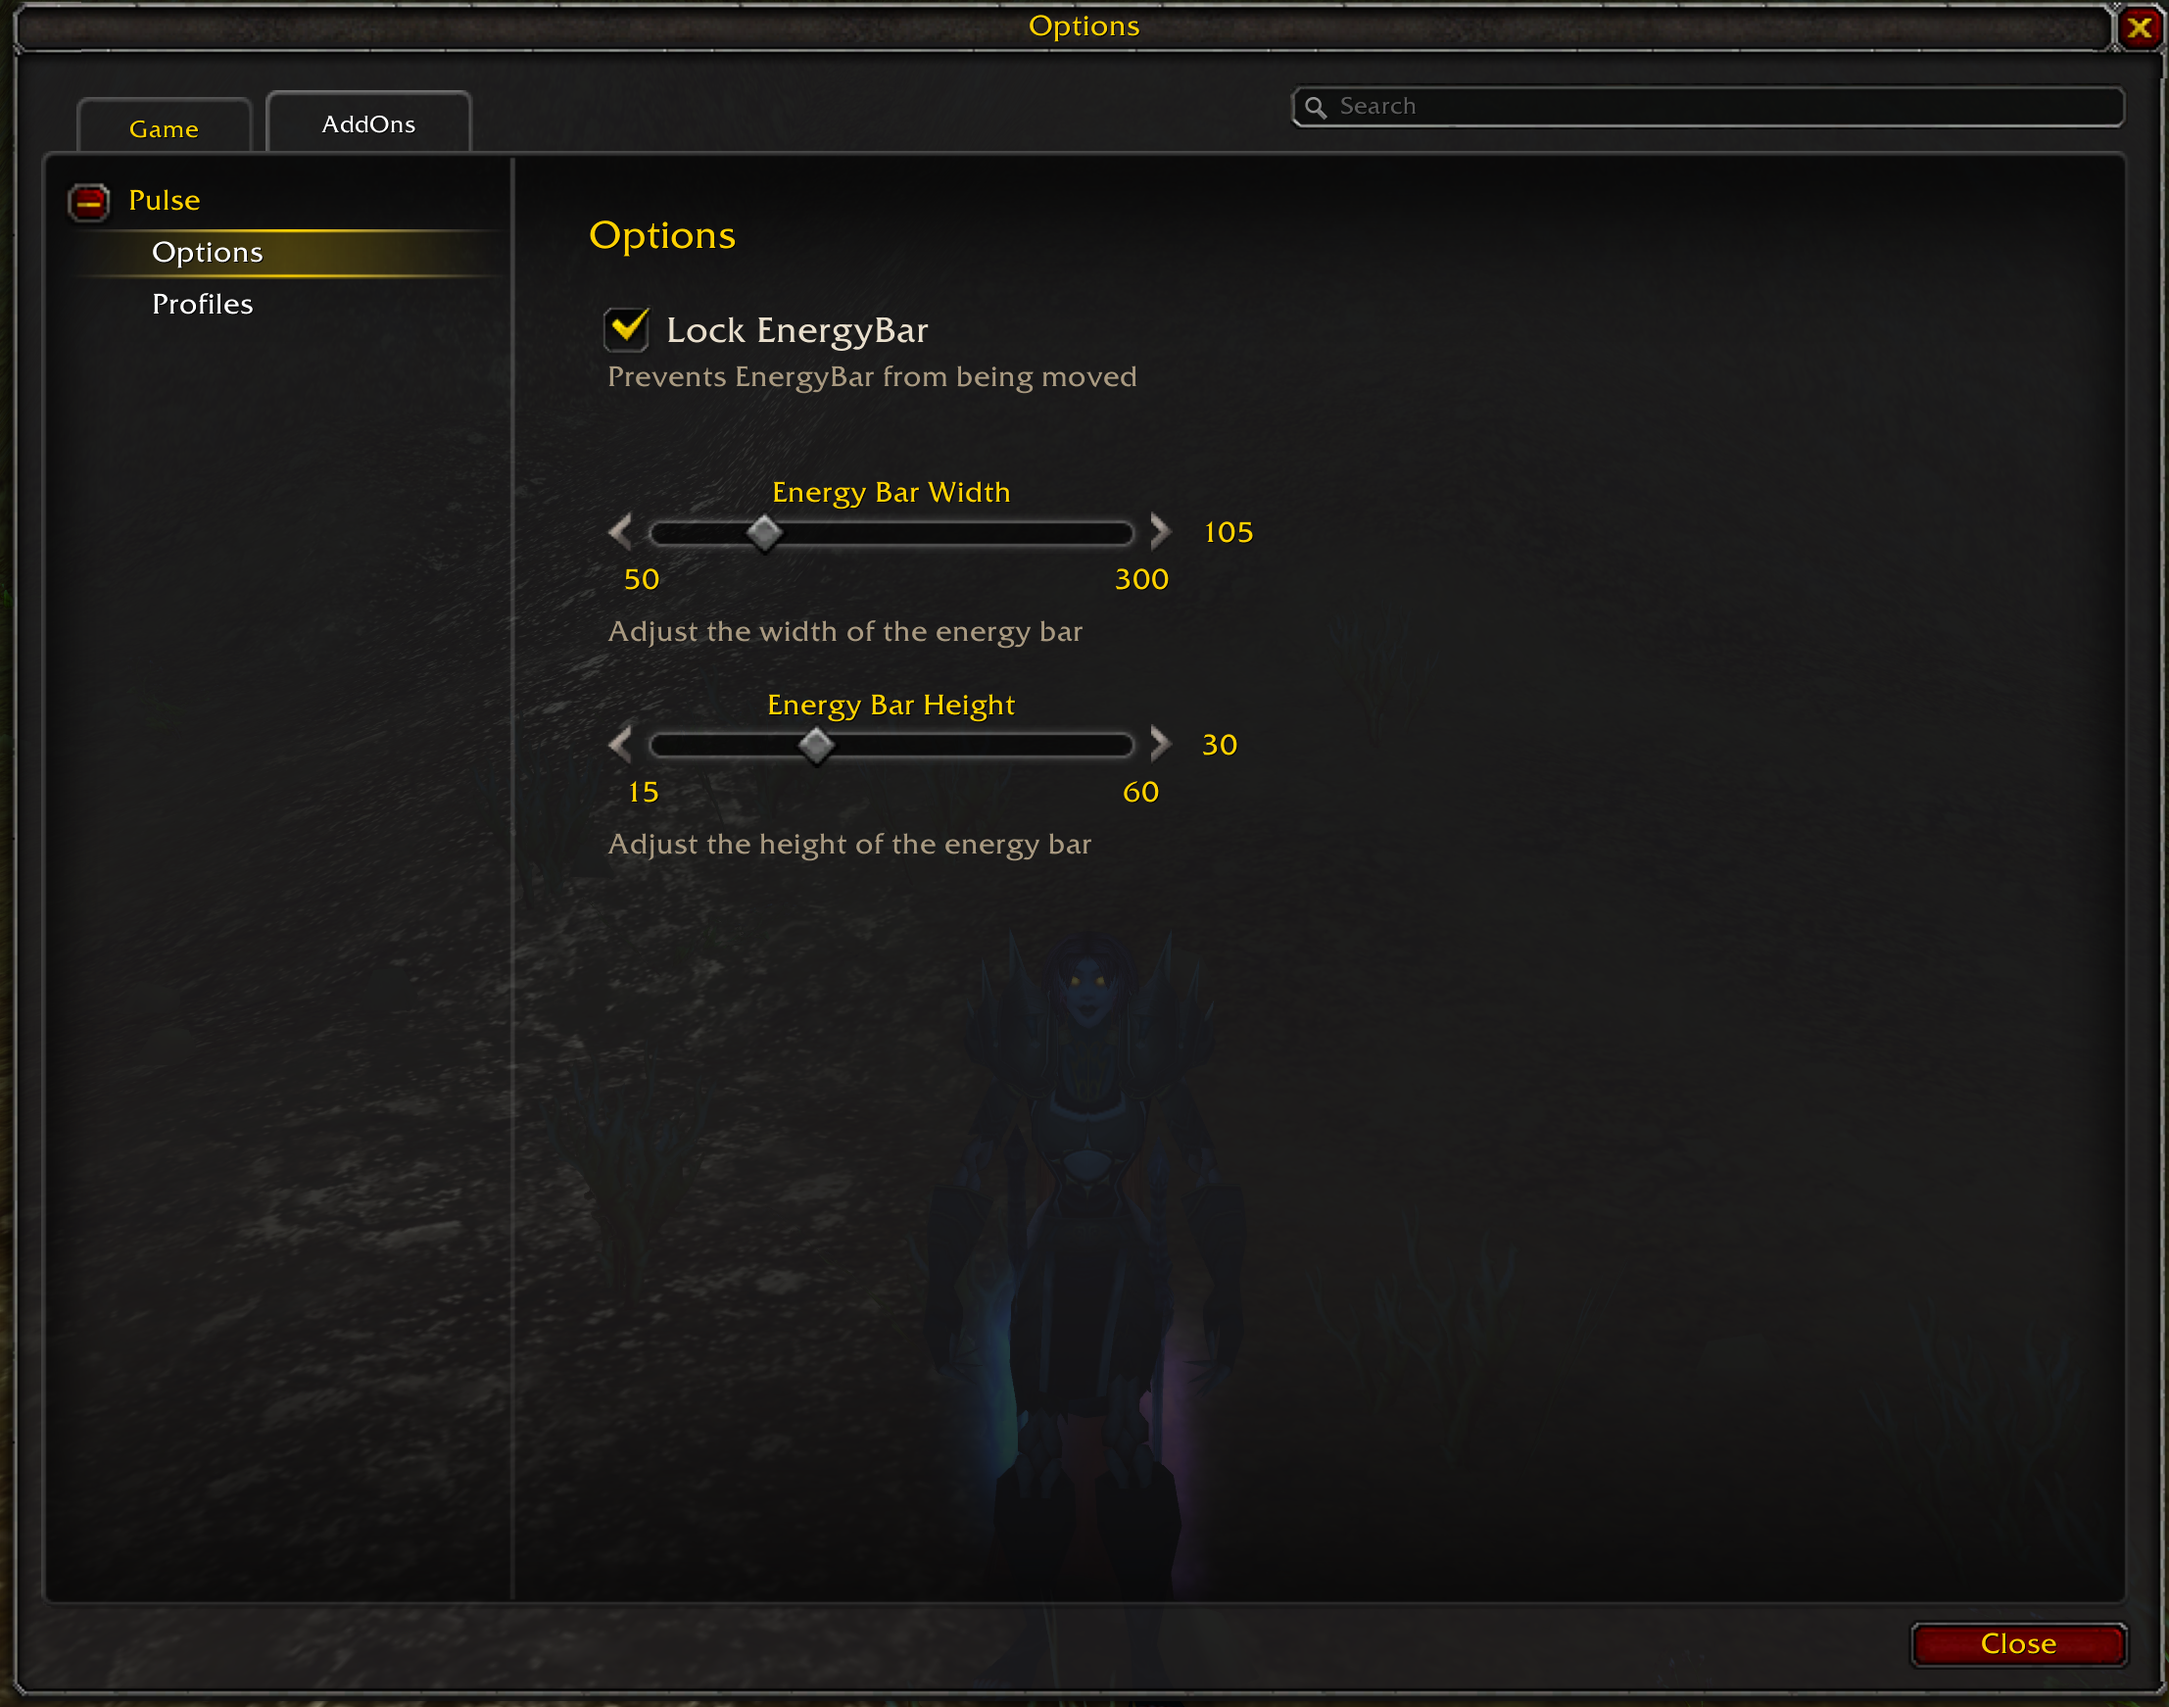
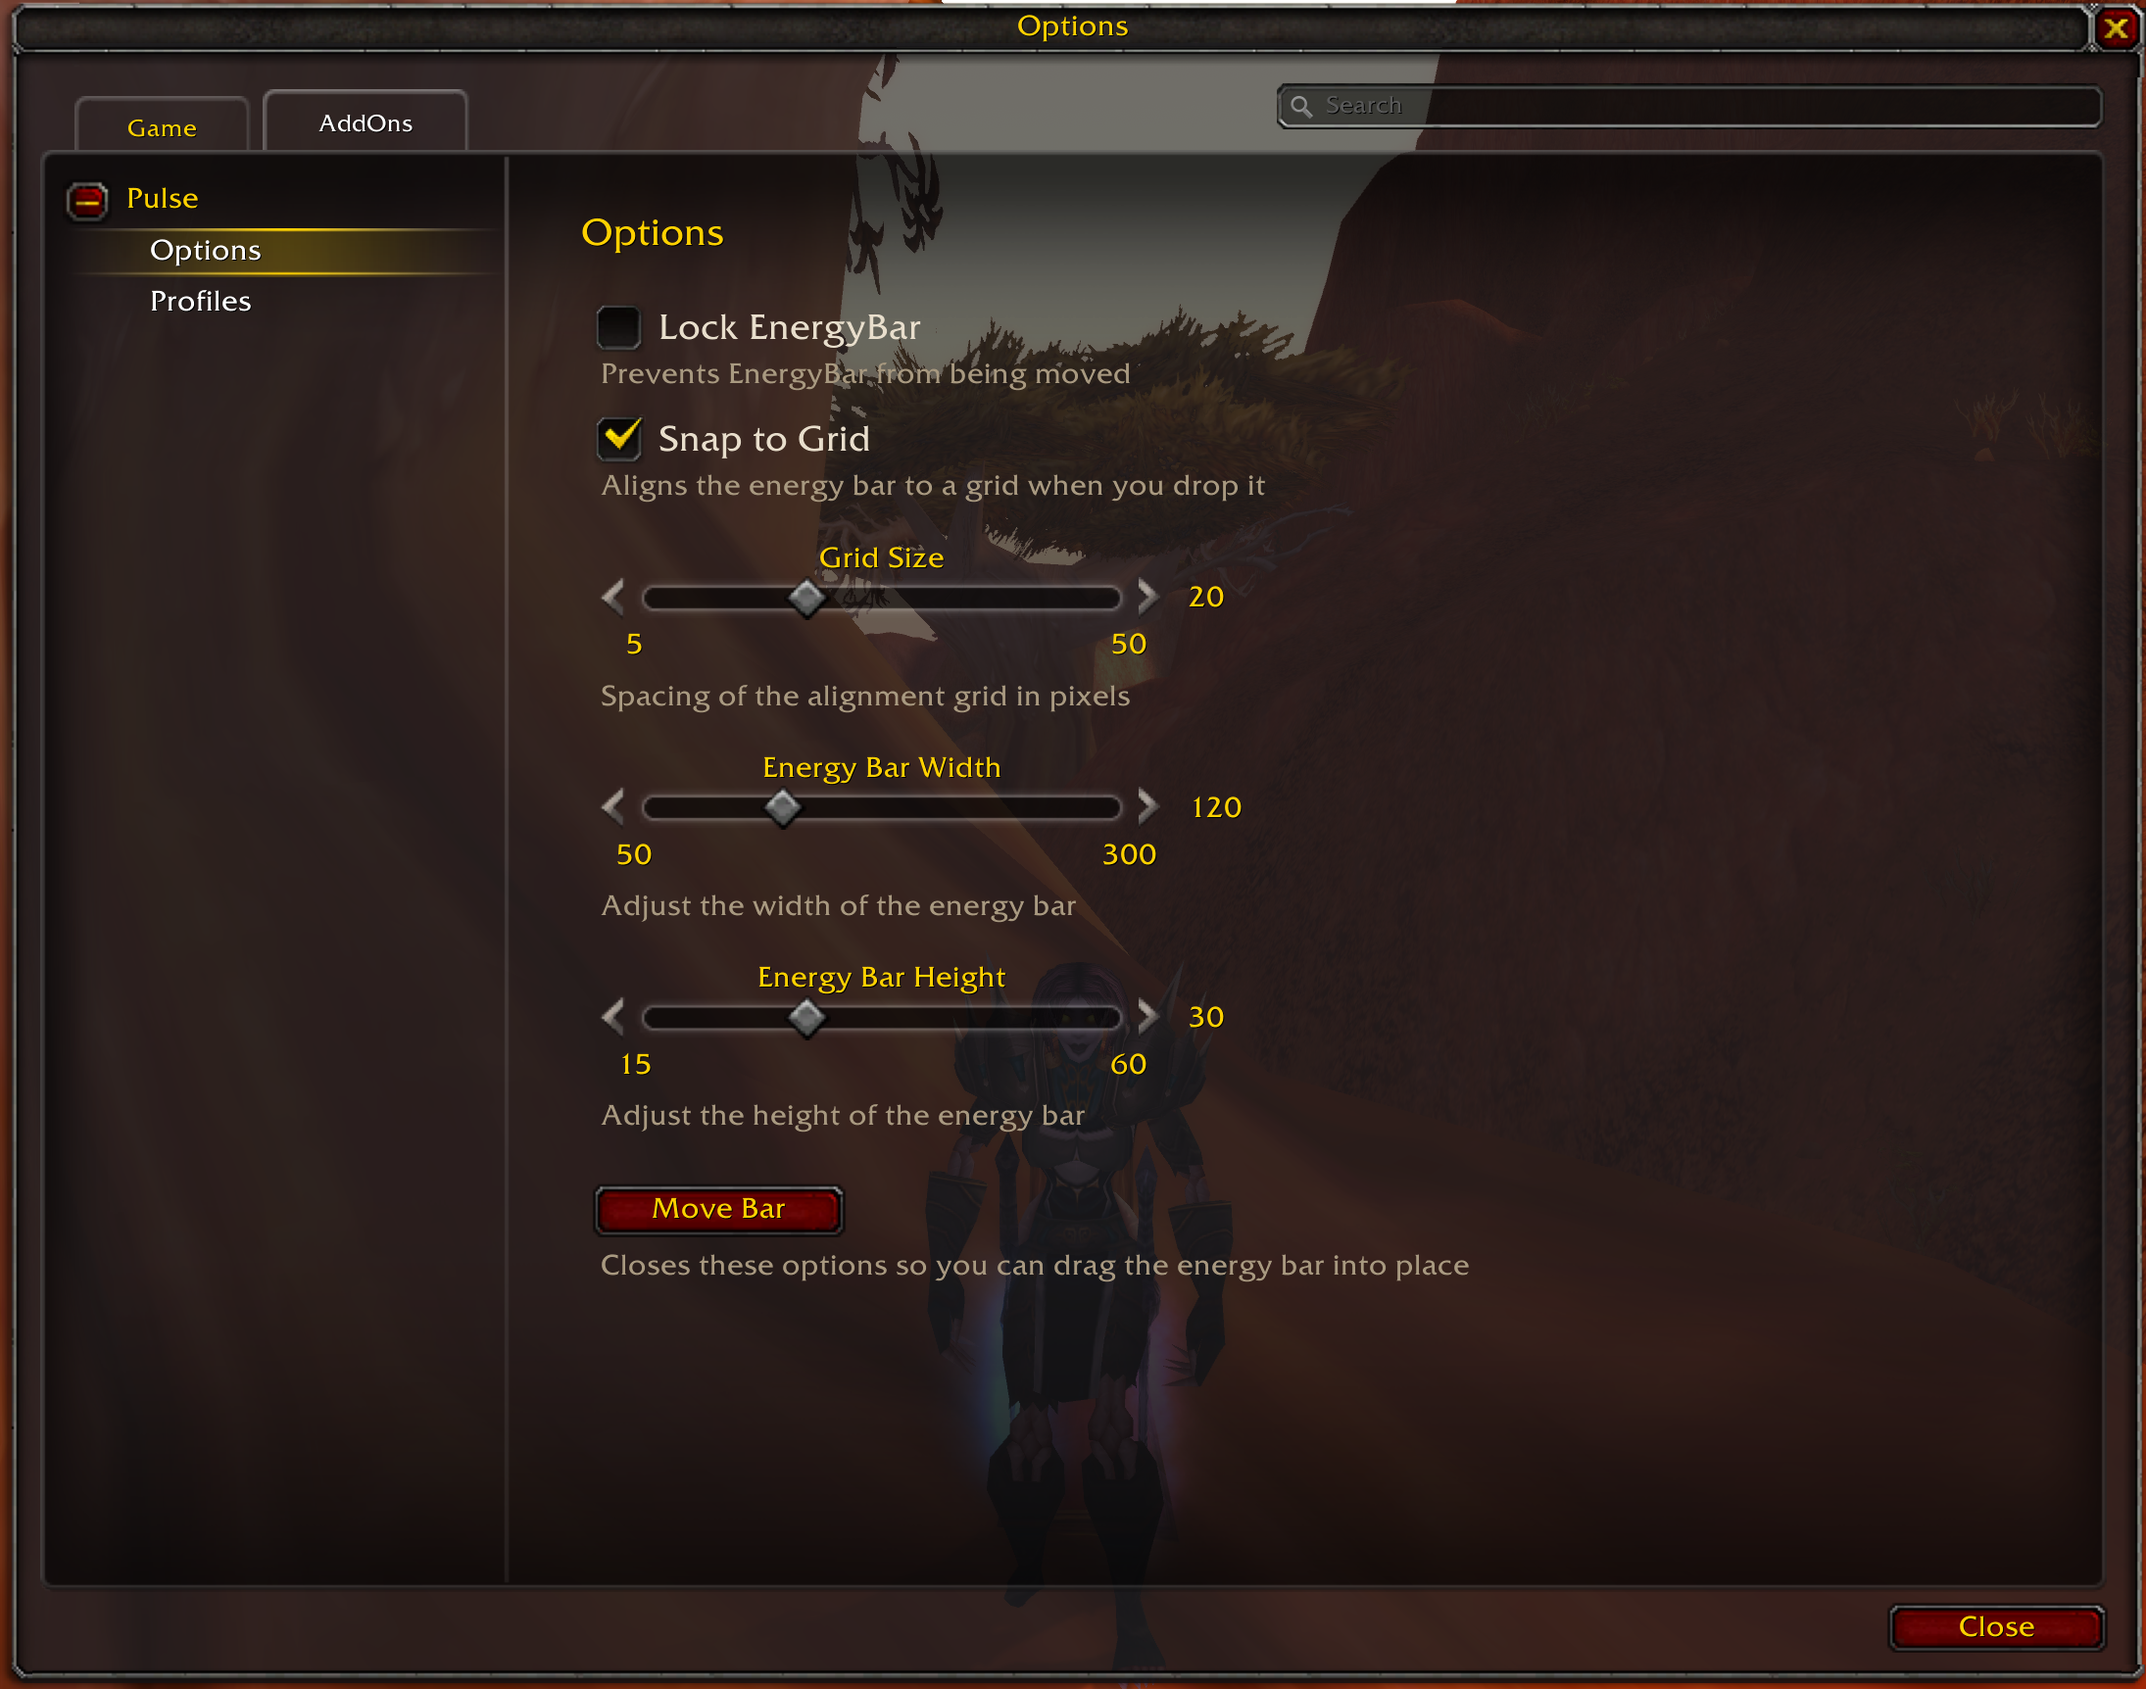
feat: Add functionality for unlocking energy bar and snapping to alignment grid in shot setup

diff --git a/README.md b/README.md
@@ -52,6 +52,8 @@ Click **Move Bar** in the options (or type `/pulse move`). Pulse closes the opti
 
 This is the intended way to position the bar: the options window sits in the middle of the screen, so it would otherwise cover the very bar you are trying to place. If **Snap to Grid** is enabled, the alignment grid is drawn while you are placing the bar and disappears again when you are done.
 
+![](docs/pulse_grid_snap.png)
+
 ### Available Settings
 
 #### Energy Bar Positioning
